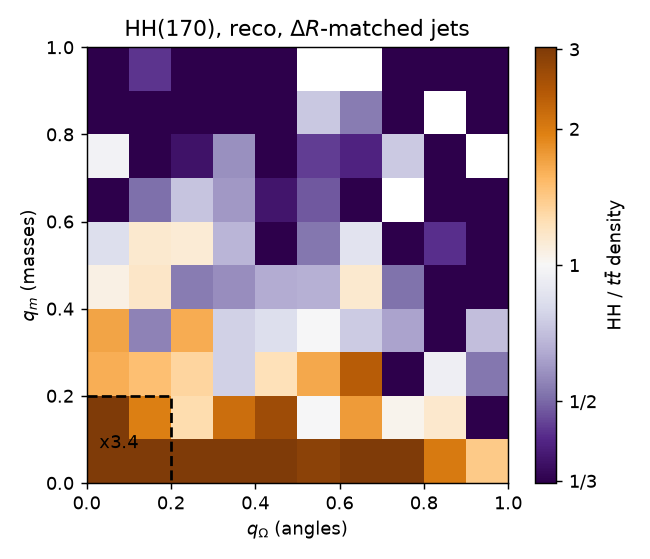
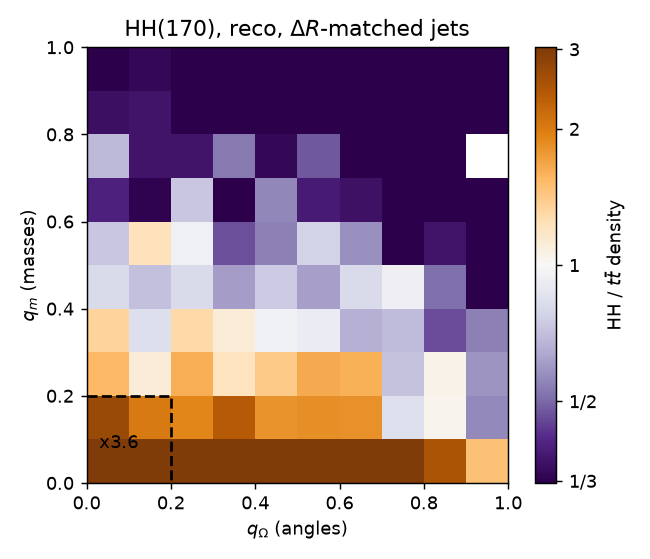
Study T with 1e5 HH(170): combined matched sample, all results and figures redone
Claude-Session: https://claude.ai/code/session_01FSjXgdaswEHfxoteyCtD3a

Changed region(s): [[0.1231, 0.0608, 0.8, 0.8819]]

diff --git a/study_truthmatch/fig6_corner_matched.py b/study_truthmatch/fig6_corner_matched.py
@@ -27,7 +27,7 @@ p.add_argument("--bins", type=int, default=5)
 p.add_argument("--corner", type=float, default=0.2)
 a = p.parse_args()
 
-TT, HH = (np.load(os.path.join(HERE, f"data_{s}.npz")) for s in ("run_seed1001", "run_m170_seed2170"))
+TT, HH = (np.load(os.path.join(HERE, f"data_{s}.npz")) for s in ("run_seed1001", "run_m170_all"))
 ok_t, ok_h = TT["ok"], HH["ok"]
 f = osde.load_density(os.path.join(HERE, "osde_dRmatch", "f_ttbar_reco.npz"))
 yo_t = f.loo({k: TT[f"m_{k}"][ok_t] for k in ANGLE_NAMES})
@@ -37,6 +37,38 @@ ym_h = bw_score(TT, ok_t, HH, ok_h, "m")
 qo = {"tt": quantile(yo_t, yo_t), "hh": quantile(yo_t, yo_h)}
 qm = {"tt": quantile(ym_t, ym_t), "hh": quantile(ym_t, ym_h)}
 w_r = weights(TT["p_cos_theta_prime"][ok_t], TT["p_cos_theta_prime_tilde"][ok_t], a.fr)
+
+def corner_plot(path, edges, R, corner, enrich, mark=M.RATIO_COLOR):
+    """As make_paper_figs.fig5_plot, with the corner box and its enrichment in the annotation red (not ink), so they
+    do not read as data on the amber cells."""
+    from matplotlib.colors import LinearSegmentedColormap, LogNorm
+    cmap = LinearSegmentedColormap.from_list("npad", [M.NAVY, "#FFFFFF", M.AMBER])
+    norm = LogNorm(vmin=1 / 3, vmax=3)
+    P, T, B, CB, TOP = 2.2, 0.78, 0.62, 0.14, 0.95
+    W = T + P + 0.22
+    H = B + P + 0.22 + CB + TOP
+    fig = M.plt.figure(figsize=(W, H))
+    ax = M.place(fig, T, B, P, P, W, H)
+    im = ax.pcolormesh(edges, edges, R.T, cmap=cmap, norm=norm, rasterized=True)
+    ax.plot([0, corner, corner], [corner, corner, 0], color=mark, lw=1.6, ls=(0, (4, 2)))
+    ax.text(0.5 * corner, 0.5 * corner, rf"$\times{enrich:.1f}$", ha="center", va="center", color=mark)
+    ax.set_xlim(0, 1); ax.set_ylim(0, 1)
+    ax.set_xticks([0, 0.5, 1]); ax.set_yticks([0, 0.5, 1])
+    ax.set_xlabel(r"$q_\Omega\ \ (\mathrm{angles})$")
+    ax.set_ylabel(r"$q_m$", rotation=0, ha="right", va="center", labelpad=6)
+    M.finish(ax, no_values_y=False)
+    cax = M.place(fig, T, B + P + 0.22, P, CB, W, H)
+    cb = fig.colorbar(im, cax=cax, orientation="horizontal", ticks=[1 / 3, 1 / 2, 1, 2, 3])
+    cb.ax.xaxis.set_ticks_position("top")
+    cb.ax.set_xticklabels([r"$\frac{1}{3}$", r"$\frac{1}{2}$", "$1$", "$2$", "$3$"])
+    cb.ax.minorticks_off()
+    cb.outline.set_linewidth(0.6)
+    cb.ax.set_title(r"$HH\ /\ t\bar{t}\ \mathrm{density}$", pad=8)
+    for ext in ("pdf", "png"):
+        fig.savefig(f"{path}.{ext}", dpi=150)
+    M.plt.close(fig)
+    return W
+
 
 c, n_h = a.corner, len(qo["hh"])
 in_t = (qo["tt"] < c) & (qm["tt"] < c)
@@ -59,6 +91,6 @@ edges = np.linspace(0, 1, a.bins + 1)
 Ht = np.histogram2d(qo["tt"], qm["tt"], [edges, edges])[0] / len(qo["tt"])
 Hh = np.histogram2d(qo["hh"], qm["hh"], [edges, edges])[0] / n_h
 R = np.where(Ht > 0, Hh / np.maximum(Ht, 1e-12), np.nan)
-res["width_in"] = M.fig5_plot(os.path.join(HERE, "fig6_corner_recomatched"), edges, R, c, res["corner_enrichment_hh"][0])
+res["width_in"] = corner_plot(os.path.join(HERE, "fig6_corner_recomatched"), edges, R, c, res["corner_enrichment_hh"][0])
 json.dump(res, open(os.path.join(HERE, "fig6_corner_recomatched.json"), "w"), indent=1)
 print(json.dumps(res, indent=1))

diff --git a/study_truthmatch/paper_figs_matched.py b/study_truthmatch/paper_figs_matched.py
@@ -26,7 +26,7 @@ from plotting import osde  # noqa: E402
 from plotting.angles import ANGLE_NAMES  # noqa: E402
 from wtb_reweight import weights  # noqa: E402
 
-SAMPLES = {"tt": "run_seed1001", "hh": "run_m170_seed2170", "h1": "run_seed2001"}
+SAMPLES = {"tt": "run_seed1001", "hh": "run_m170_all", "h1": "run_seed2001"}
 HH_LBL = r"$HH_{170}$"    # short legend label
 HH_C = M.AMBER          # the amber of the toy figure (compare_y.py LINE_J), now that hh(125) is not drawn
 

diff --git a/study_truthmatch/analyze.py b/study_truthmatch/analyze.py
@@ -25,7 +25,7 @@ from plotting import osde  # noqa: E402
 from plotting.angles import ANGLE_NAMES  # noqa: E402
 from wtb_reweight import weights  # noqa: E402
 
-TT, TT_TEST, PU0, HH = "run_seed1001", "run_seed12345", "pu0_fit", "run_m170_seed2170"
+TT, TT_TEST, PU0, HH = "run_seed1001", "run_seed12345", "pu0_fit", "run_m170_all"
 MASSES = ("m_w_had", "m_t_lep", "m_t_had")
 
 

diff --git a/LOG.md b/LOG.md
@@ -437,3 +437,8 @@ Newest entries are at the bottom. Numbers refer to the samples listed under "Sam
 - AUC HH(170) vs tt̄: parton 0.638, parton+trig 0.652, gen χ² 0.547, reco χ² 0.534, reco χ² on the matched events 0.536, **reco matched 0.573** (vs independent tt̄ 0.574, vs pu0 tt̄ 0.569). Smaller basis (3,3; 5184 terms): χ² 0.538, matched 0.579. tt̄_R (F_R=0.3): χ² 0.510, matched 0.526.
 - Corner with matched-jet masses: BW mass score alone AUC 0.737; q<0.2 corner ×3.4±0.4 (χ² jets: ×1.7).
 - Results: `study_truthmatch/results.json`, `results_small.json`, `summary*.png`, `corner_matched*.png`.
+
+## 2026-10-12 — Study T with 1e5 HH(170)
+- 80k more HH(170) (seeds 2171-2174, same cards as run_m170_seed2170; `study_truthmatch/generate_hh170_more.sh`), Delta-R matched: 3451 of 1e5 events (3.45%); combined as `study_truthmatch/data_run_m170_all.npz`.
+- Truth-matched AUC 0.574 +- 0.006 (vs independent tt 0.575, pu0 tt 0.569); chi2 on the same matched events 0.547 (was 0.536 with 698 events), so about 1/3 of the gain from 0.534 is the selection of matchable events, 2/3 the jet assignment.
+- Corner (q < 0.2): x3.6 +- 0.2; masses alone x5.3 +- 0.2, angles alone x1.3 +- 0.1 at the same 3.9% of tt. HH y<=0: 11.5%. Lowest q decile ratio 1.39.
